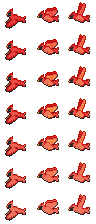
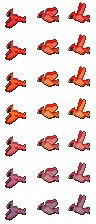
Fade Phlappy cardinal through lighting changes

diff --git a/games/phlappy-phant/src/Render/Scene.php b/games/phlappy-phant/src/Render/Scene.php
@@ -265,7 +265,9 @@ final class Scene
 
 		if($this->cardinal !== null)
 		{
-			// A gentle bob keeps the glide from looking like a slide.
+			// A gentle bob keeps the glide from looking like a slide. Draw the next graded palette over the current one
+			// with the scene's fade so the bird changes light without popping between palette steps. Both sprites use the
+			// same animation clock, keeping their wing frames aligned throughout the fade.
 			$bird = $this->tile(
 				self::GID_CARDINAL + self::STRIDE_CARDINAL * $this->palette
 				, round($this->cardinal[0]) * $scale
@@ -274,7 +276,17 @@ final class Scene
 				, $tint
 			);
 			$bird->animated = true;
-			$this->sprites->render([$bird], $camera, $seconds * 1000);
+			$birds = [$bird];
+
+			if($this->fade > 0)
+			{
+				$next = clone $bird;
+				$next->gid += self::STRIDE_CARDINAL;
+				$next->tint[3] = $this->fade;
+				$birds[] = $next;
+			}
+
+			$this->sprites->render($birds, $camera, $seconds * 1000);
 		}
 
 		for($x = -fmod($game->scroll, self::GROUND_TILE); $x < $visible; $x += self::GROUND_TILE)

diff --git a/games/phlappy-phant/docs/architecture.md b/games/phlappy-phant/docs/architecture.md
@@ -57,7 +57,7 @@ A frame is drawn back to front:
 
 1. The device is cleared to the current sky color.
 2. The backdrop is drawn at twice the size of the other tiles, resting on the ground line. Each band of the parallax mask is a separate strip that drifts at its own fraction of the scroll, and the river is a two-frame tile animation.
-3. A cardinal crosses the sky now and then, from right to left. It sets out only in full daylight, changes through its hand-painted sunrise/sunset and night colors if the light turns while it is airborne, finishes its crossing, and is timed from its own random stream so it never touches the seeded course.
+3. A cardinal crosses the sky now and then, from right to left. It sets out only in full daylight, alpha-fades through its hand-painted sunrise/sunset and night colors if the light turns while it is airborne, finishes its crossing, and is timed from its own random stream so it never touches the seeded course.
 4. The ground is two rows of 32-unit tiles that scroll at full speed.
 5. Scenery stands on the ground to the right of each pair. One of six arrangements of tree, shrub, and fence, one of them empty, is chosen from the pair's number.
 6. Each pair is built from 8-unit slices: a cap, wall slices that alternate so the dirt pattern continues, and a base that closes the outline into the grass. The hanging pillar is the same stack with every slice flipped.
